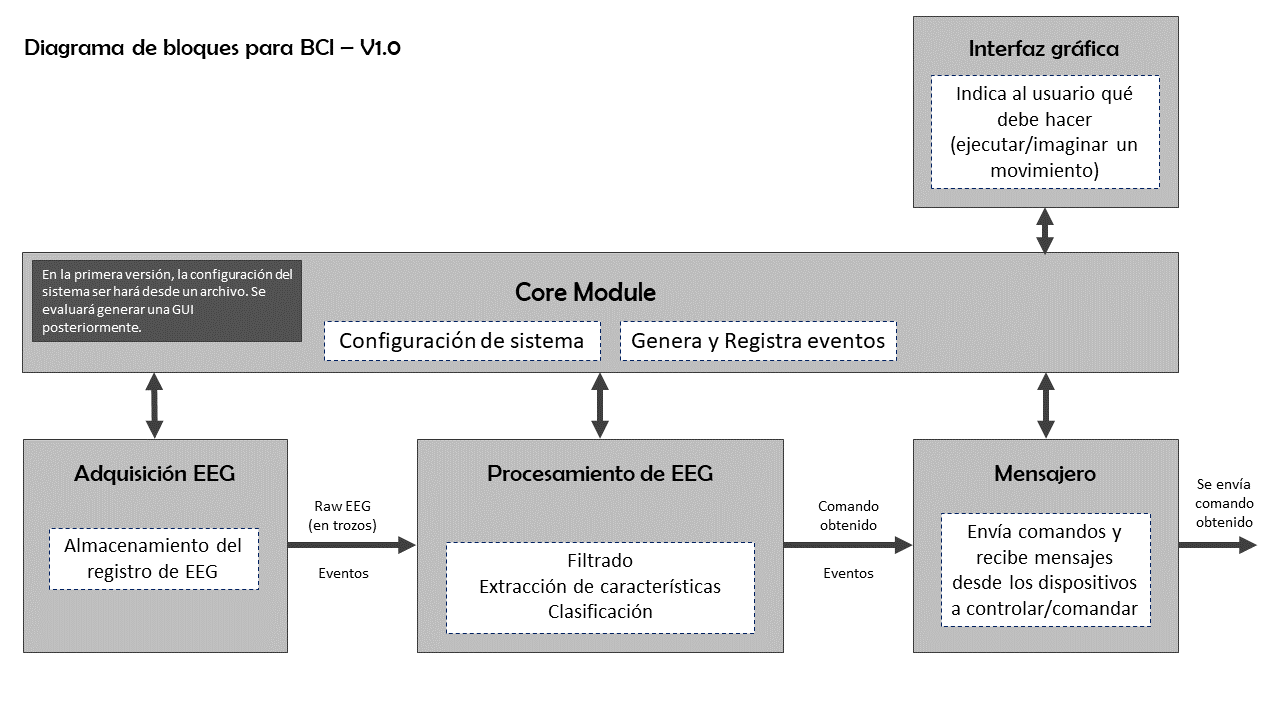
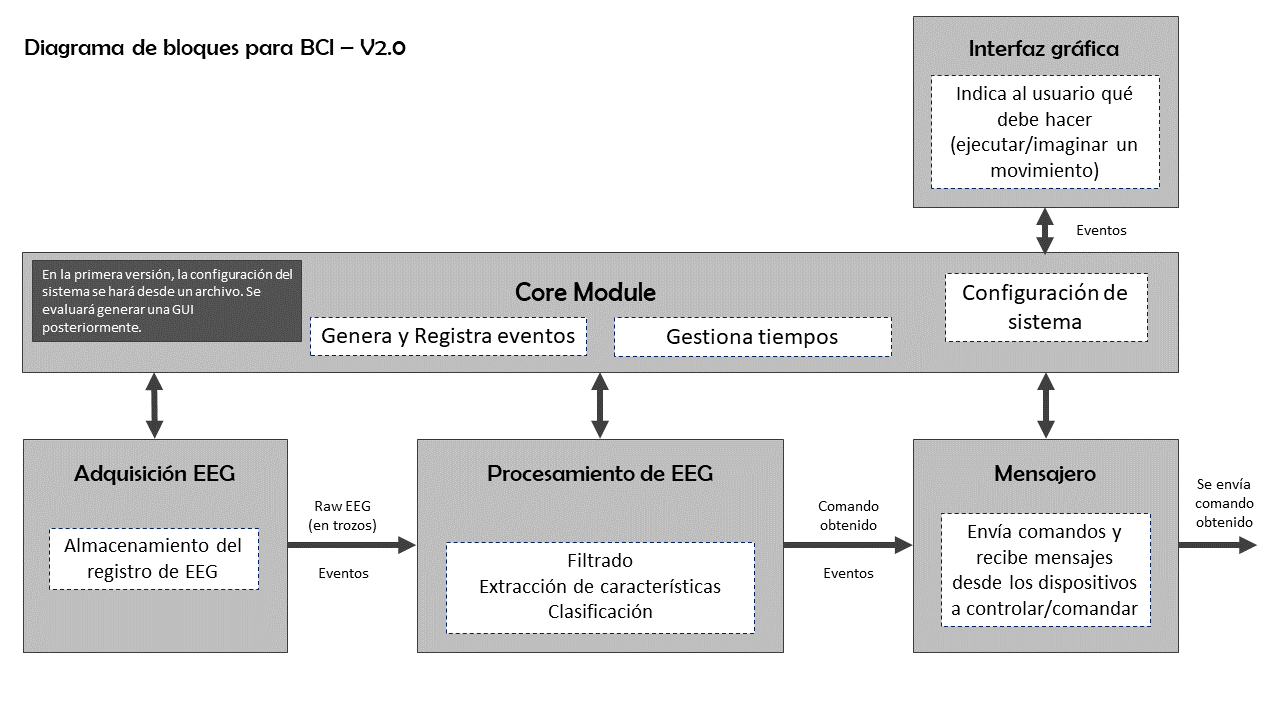
Se genera versión 2 de los bloques que componen el módulo 1. Se modifican algunas dependencias para el bloque GUI

diff --git a/Desarrollo/PythonScripts/GUIModule/Interfaz.py b/Desarrollo/PythonScripts/GUIModule/Interfaz.py
@@ -11,11 +11,6 @@ import sys
 import argparse
 import logging
 
-a = 10
-
-if a != 10:
-    print("Holis")
-
 from brainflow.board_shim import BoardShim, BrainFlowInputParams, BoardIds
 
 import fileAdmin as fa
